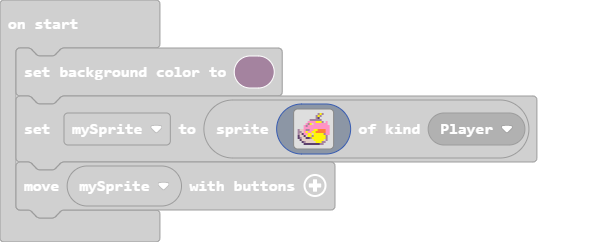
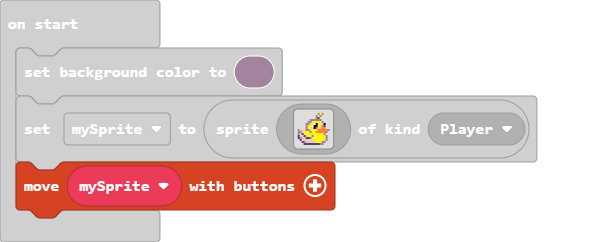
Restore '4/28/2021, 7:03:57 PM Update main.blocks, main.ts'

Changed region(s): [[0.0, 0.405, 0.6112, 0.9256]]

diff --git a/main.ts b/main.ts
@@ -4,13 +4,13 @@ let mySprite = sprites.create(img`
     . . . . . . . . . b 5 b . . . . 
     . . . . . . . . . b c . . . . . 
     . . . . . . b b b b b b . . . . 
-    . . . . . 3 3 3 3 5 5 5 b . 3 . 
-    . . . . 3 b 5 d 3 3 3 3 3 3 3 . 
-    . . . 3 b 3 3 3 3 3 3 3 3 3 3 3 
-    . . . 3 3 3 3 3 3 3 3 3 3 3 3 3 
-    b d d 3 b b 3 3 5 5 4 4 4 4 3 3 
-    b b d 3 5 3 3 5 5 4 4 4 4 4 3 3 
-    b d c 3 3 5 5 d 5 5 5 5 5 b 3 3 
+    . . . . . b b 5 5 5 5 5 b . . . 
+    . . . . b b 5 d 1 f 5 5 d f . . 
+    . . . . b 5 5 1 f f 5 d 4 c . . 
+    . . . . b 5 5 d f b d d 4 4 . . 
+    b d d d b b d 5 5 5 4 4 4 4 4 b 
+    b b d 5 5 5 b 5 5 4 4 4 4 4 b . 
+    b d c 5 5 5 5 d 5 5 5 5 5 b . . 
     c d d c d 5 5 b 5 5 5 5 5 5 b . 
     c b d d c c b 5 5 5 5 5 5 5 b . 
     . c d d d d d d 5 5 5 5 5 d b . 
